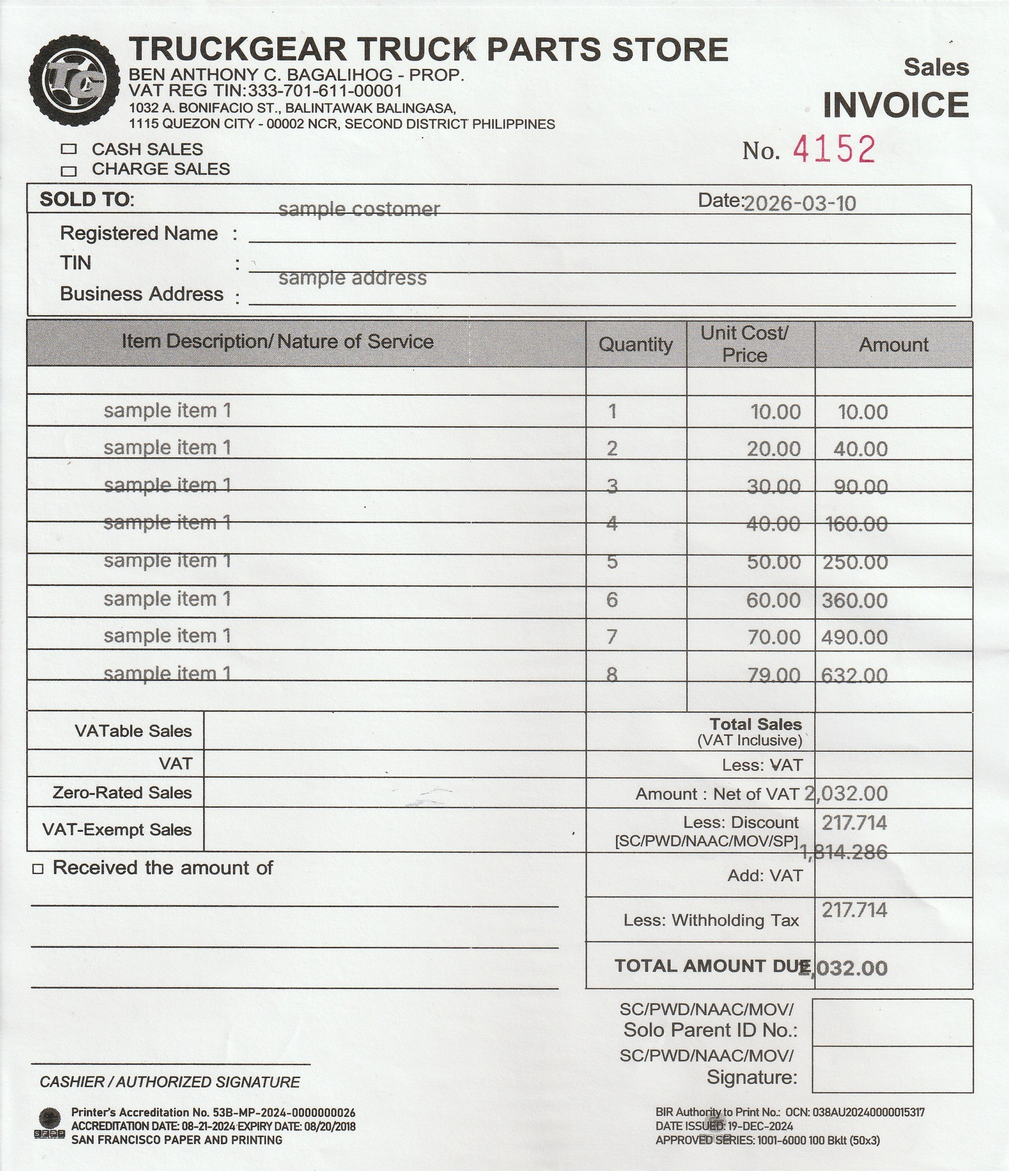
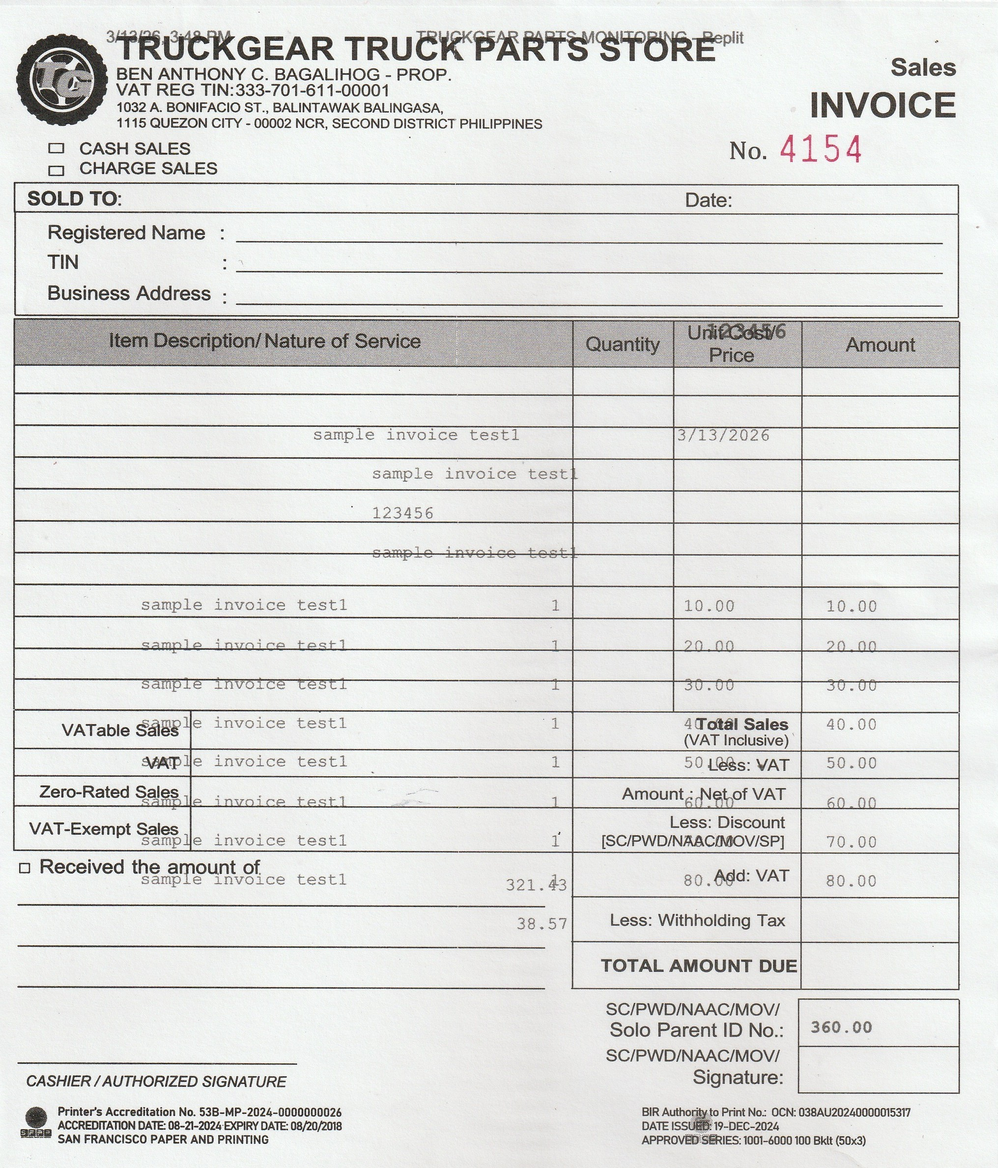
Adjust invoice printing to align with pre-printed forms
Revert CSS and component styles to a fixed-coordinate system for accurate invoice printing and resolve alignment issues.

Replit-Commit-Author: Agent
Replit-Commit-Session-Id: 8ac2a694-98d5-45c3-88cb-b80d0ed2ba3b
Replit-Commit-Checkpoint-Type: full_checkpoint
Replit-Commit-Event-Id: 2df3ead9-0f0a-4c55-b567-287ea16df437
Replit-Commit-Screenshot-Url: https://storage.googleapis.com/screenshot-production-us-central1/c480d651-e199-4d45-839f-b17a900dfa48/8ac2a694-98d5-45c3-88cb-b80d0ed2ba3b/zINcXr9
Replit-Helium-Checkpoint-Created: true

diff --git a/client/src/pages/POS.tsx b/client/src/pages/POS.tsx
@@ -1069,77 +1069,77 @@ export default function POS() {
             className="hidden print:block"
             style={{
               position: "relative",
-              width: "175mm",
-              height: "200mm",
+              width: "148mm",
+              height: "210mm",
               margin: "0",
               padding: "0",
               overflow: "hidden",
-              background: "white",
+              background: "transparent",
               fontFamily: "'Courier New', Courier, monospace",
               fontSize: "10pt",
               color: "black",
             }}
           >
-            {/* ── Invoice Number ── */}
-            <div style={{ position: "absolute", top: "41mm", left: "132mm", width: "38mm", fontWeight: "bold", fontSize: "13pt" }}>
+            {/* INVOICE NUMBER */}
+            <div style={{ position: "absolute", top: "45mm", right: "20mm", fontWeight: "bold", fontSize: "13pt" }}>
               {vaultPrintInvoice.invoiceNumber}
             </div>
 
-            {/* ── Date ── */}
-            <div style={{ position: "absolute", top: "63mm", left: "126mm", width: "44mm" }}>
+            {/* DATE */}
+            <div style={{ position: "absolute", top: "45mm", right: "60mm", fontSize: "9pt" }}>
               {new Date(vaultPrintInvoice.date || vaultPrintInvoice.createdAt).toLocaleDateString("en-PH")}
             </div>
 
-            {/* ── Customer/Sold To name ── */}
-            <div style={{ position: "absolute", top: "63mm", left: "52mm", width: "71mm", whiteSpace: "nowrap", overflow: "hidden" }}>
+            {/* SOLD TO / CUSTOMER NAME */}
+            <div style={{ position: "absolute", top: "65mm", left: "30mm", width: "85mm", whiteSpace: "nowrap", overflow: "hidden" }}>
               {vaultPrintInvoice.registeredName}
             </div>
 
-            {/* ── Registered Name value ── */}
-            <div style={{ position: "absolute", top: "71mm", left: "64mm", width: "104mm", whiteSpace: "nowrap", overflow: "hidden" }}>
+            {/* REGISTERED NAME */}
+            <div style={{ position: "absolute", top: "72mm", left: "30mm", width: "108mm", whiteSpace: "nowrap", overflow: "hidden" }}>
               {vaultPrintInvoice.registeredName}
             </div>
 
-            {/* ── TIN ── */}
-            <div style={{ position: "absolute", top: "79mm", left: "64mm", width: "104mm" }}>
+            {/* TIN */}
+            <div style={{ position: "absolute", top: "79mm", left: "30mm", width: "108mm" }}>
               {vaultPrintInvoice.tin}
             </div>
 
-            {/* ── Business Address ── */}
-            <div style={{ position: "absolute", top: "87mm", left: "64mm", width: "104mm", whiteSpace: "nowrap", overflow: "hidden" }}>
+            {/* BUSINESS ADDRESS */}
+            <div style={{ position: "absolute", top: "86mm", left: "30mm", width: "108mm", whiteSpace: "nowrap", overflow: "hidden" }}>
               {vaultPrintInvoice.businessAddress}
             </div>
 
-            {/* ── Items: first row at 98mm, row height 8mm ── */}
+            {/* ITEMS TABLE */}
             {(vaultPrintInvoice.items || []).map((it: any, index: number) => (
-              <div key={index} style={{ position: "absolute", top: `${98 + index * 8}mm`, left: "0", width: "175mm" }}>
-                <div style={{ position: "absolute", left: "17mm", width: "73mm", overflow: "hidden", whiteSpace: "nowrap" }}>
+              <div key={index} style={{ position: "absolute", top: `${95 + index * 6.5}mm`, left: "15mm", width: "120mm" }}>
+                <div style={{ position: "absolute", left: "0", width: "68mm", overflow: "hidden", whiteSpace: "nowrap" }}>
                   {it.itemDescription}
                 </div>
-                <div style={{ position: "absolute", left: "93mm", width: "17mm", textAlign: "center" }}>
+                <div style={{ position: "absolute", left: "68mm", width: "14mm", textAlign: "center" }}>
                   {it.quantity}
                 </div>
-                <div style={{ position: "absolute", left: "112mm", width: "26mm", textAlign: "right" }}>
+                <div style={{ position: "absolute", left: "82mm", width: "20mm", textAlign: "right" }}>
                   {Number(it.unitPrice).toLocaleString(undefined, { minimumFractionDigits: 2 })}
                 </div>
-                <div style={{ position: "absolute", left: "141mm", width: "26mm", textAlign: "right" }}>
+                <div style={{ position: "absolute", left: "102mm", width: "18mm", textAlign: "right" }}>
                   {Number(it.amount).toLocaleString(undefined, { minimumFractionDigits: 2 })}
                 </div>
               </div>
             ))}
 
-            {/* ── VATable Sales ── */}
-            <div style={{ position: "absolute", top: "155mm", left: "73mm", width: "31mm", textAlign: "right" }}>
+            {/* VATABLE SALES */}
+            <div style={{ position: "absolute", bottom: "52mm", right: "20mm", width: "30mm", textAlign: "right" }}>
               {Number(vaultPrintInvoice.vatableSales || 0).toLocaleString(undefined, { minimumFractionDigits: 2 })}
             </div>
 
-            {/* ── VAT Amount ── */}
-            <div style={{ position: "absolute", top: "163mm", left: "73mm", width: "31mm", textAlign: "right" }}>
+            {/* VAT AMOUNT */}
+            <div style={{ position: "absolute", bottom: "46mm", right: "20mm", width: "30mm", textAlign: "right" }}>
               {Number(vaultPrintInvoice.vatAmount || 0).toLocaleString(undefined, { minimumFractionDigits: 2 })}
             </div>
 
-            {/* ── Total Amount Due ── */}
-            <div style={{ position: "absolute", top: "184mm", left: "125mm", width: "41mm", textAlign: "right", fontWeight: "bold" }}>
+            {/* TOTAL AMOUNT DUE */}
+            <div style={{ position: "absolute", bottom: "40mm", right: "20mm", width: "30mm", textAlign: "right", fontWeight: "bold" }}>
               {Number(vaultPrintInvoice.totalAmount_Due || 0).toLocaleString(undefined, { minimumFractionDigits: 2 })}
             </div>
           </div>
@@ -1254,12 +1254,12 @@ export default function POS() {
                   Close
                 </button>
               </div>
-              {/* 175×200mm container with form as background image, fields overlaid in red */}
+              {/* A5 container — form photo as background, data in red for calibration */}
               <div
                 style={{
                   position: "relative",
-                  width: "175mm",
-                  height: "200mm",
+                  width: "148mm",
+                  height: "210mm",
                   backgroundImage: "url('/invoice-form.jpg')",
                   backgroundSize: "100% 100%",
                   backgroundRepeat: "no-repeat",
@@ -1270,23 +1270,23 @@ export default function POS() {
                   flexShrink: 0,
                 }}
               >
-                <div style={{ position: "absolute", top: "41mm", left: "132mm", width: "38mm", fontWeight: "bold", fontSize: "13pt" }}>{invoiceNo}</div>
-                <div style={{ position: "absolute", top: "63mm", left: "126mm", width: "44mm" }}>{date}</div>
-                <div style={{ position: "absolute", top: "63mm", left: "52mm", width: "71mm", whiteSpace: "nowrap", overflow: "hidden" }}>{customer.name}</div>
-                <div style={{ position: "absolute", top: "71mm", left: "64mm", width: "104mm", whiteSpace: "nowrap", overflow: "hidden" }}>{customer.registeredName || customer.name}</div>
-                <div style={{ position: "absolute", top: "79mm", left: "64mm", width: "104mm" }}>{customer.tin}</div>
-                <div style={{ position: "absolute", top: "87mm", left: "64mm", width: "104mm", whiteSpace: "nowrap", overflow: "hidden" }}>{customer.address}</div>
+                <div style={{ position: "absolute", top: "45mm", right: "20mm", fontWeight: "bold", fontSize: "13pt" }}>{invoiceNo}</div>
+                <div style={{ position: "absolute", top: "45mm", right: "60mm", fontSize: "9pt" }}>{date}</div>
+                <div style={{ position: "absolute", top: "65mm", left: "30mm", width: "85mm", whiteSpace: "nowrap", overflow: "hidden" }}>{customer.name}</div>
+                <div style={{ position: "absolute", top: "72mm", left: "30mm", width: "108mm", whiteSpace: "nowrap", overflow: "hidden" }}>{customer.registeredName || customer.name}</div>
+                <div style={{ position: "absolute", top: "79mm", left: "30mm", width: "108mm" }}>{customer.tin}</div>
+                <div style={{ position: "absolute", top: "86mm", left: "30mm", width: "108mm", whiteSpace: "nowrap", overflow: "hidden" }}>{customer.address}</div>
                 {items.filter((i) => i.description.trim() !== "").map((item, index) => (
-                  <div key={index} style={{ position: "absolute", top: `${98 + index * 8}mm`, left: "0", width: "175mm" }}>
-                    <div style={{ position: "absolute", left: "17mm", width: "73mm", overflow: "hidden", whiteSpace: "nowrap" }}>{item.description}</div>
-                    <div style={{ position: "absolute", left: "93mm", width: "17mm", textAlign: "center" }}>{item.qty}</div>
-                    <div style={{ position: "absolute", left: "112mm", width: "26mm", textAlign: "right" }}>{Number(item.price).toLocaleString(undefined, { minimumFractionDigits: 2 })}</div>
-                    <div style={{ position: "absolute", left: "141mm", width: "26mm", textAlign: "right" }}>{(item.qty * item.price).toLocaleString(undefined, { minimumFractionDigits: 2 })}</div>
+                  <div key={index} style={{ position: "absolute", top: `${95 + index * 6.5}mm`, left: "15mm", width: "120mm" }}>
+                    <div style={{ position: "absolute", left: "0", width: "68mm", overflow: "hidden", whiteSpace: "nowrap" }}>{item.description}</div>
+                    <div style={{ position: "absolute", left: "68mm", width: "14mm", textAlign: "center" }}>{item.qty}</div>
+                    <div style={{ position: "absolute", left: "82mm", width: "20mm", textAlign: "right" }}>{Number(item.price).toLocaleString(undefined, { minimumFractionDigits: 2 })}</div>
+                    <div style={{ position: "absolute", left: "102mm", width: "18mm", textAlign: "right" }}>{(item.qty * item.price).toLocaleString(undefined, { minimumFractionDigits: 2 })}</div>
                   </div>
                 ))}
-                <div style={{ position: "absolute", top: "155mm", left: "73mm", width: "31mm", textAlign: "right" }}>{vatableSales.toLocaleString(undefined, { minimumFractionDigits: 2 })}</div>
-                <div style={{ position: "absolute", top: "163mm", left: "73mm", width: "31mm", textAlign: "right" }}>{vatAmount.toLocaleString(undefined, { minimumFractionDigits: 2 })}</div>
-                <div style={{ position: "absolute", top: "184mm", left: "125mm", width: "41mm", textAlign: "right", fontWeight: "bold" }}>{totalAmount_Due.toLocaleString(undefined, { minimumFractionDigits: 2 })}</div>
+                <div style={{ position: "absolute", bottom: "52mm", right: "20mm", width: "30mm", textAlign: "right" }}>{vatableSales.toLocaleString(undefined, { minimumFractionDigits: 2 })}</div>
+                <div style={{ position: "absolute", bottom: "46mm", right: "20mm", width: "30mm", textAlign: "right" }}>{vatAmount.toLocaleString(undefined, { minimumFractionDigits: 2 })}</div>
+                <div style={{ position: "absolute", bottom: "40mm", right: "20mm", width: "30mm", textAlign: "right", fontWeight: "bold" }}>{totalAmount_Due.toLocaleString(undefined, { minimumFractionDigits: 2 })}</div>
               </div>
               <p className="text-yellow-300 text-sm max-w-md text-center">
                 Red text shows where your data will print. If any value is misaligned, tell me by how many mm to move it (e.g. "invoice number 3mm left, 2mm down").
@@ -1301,81 +1301,81 @@ export default function POS() {
           className="hidden print:block"
           style={{
             position: "relative",
-            width: "175mm",
-            height: "200mm",
+            width: "148mm",   /* A5 width — do not change */
+            height: "210mm",  /* A5 height — do not change */
             margin: "0",
             padding: "0",
             overflow: "hidden",
-            background: "white",
+            background: "transparent",
             fontFamily: "'Courier New', Courier, monospace",
             fontSize: "10pt",
             color: "black",
           }}
         >
-          {/* ── Invoice Number — right of pre-printed "No." ── */}
-          <div style={{ position: "absolute", top: "41mm", left: "132mm", width: "38mm", fontWeight: "bold", fontSize: "13pt" }}>
+          {/* INVOICE NUMBER — increase right to move left; increase top to move down */}
+          <div style={{ position: "absolute", top: "45mm", right: "20mm", fontWeight: "bold", fontSize: "13pt" }}>
             {invoiceNo}
           </div>
 
-          {/* ── Date — right side of "SOLD TO:" row, after pre-printed "Date:" ── */}
-          <div style={{ position: "absolute", top: "63mm", left: "126mm", width: "44mm" }}>
+          {/* DATE — increase right to move left; adjust top for vertical alignment */}
+          <div style={{ position: "absolute", top: "45mm", right: "60mm", fontSize: "9pt" }}>
             {date}
           </div>
 
-          {/* ── Customer/Sold To name — left portion of "SOLD TO:" row ── */}
-          <div style={{ position: "absolute", top: "63mm", left: "52mm", width: "71mm", whiteSpace: "nowrap", overflow: "hidden" }}>
+          {/* SOLD TO / CUSTOMER NAME — increase left to move right; adjust top */}
+          <div style={{ position: "absolute", top: "65mm", left: "30mm", width: "85mm", whiteSpace: "nowrap", overflow: "hidden" }}>
             {customer.name}
           </div>
 
-          {/* ── Registered Name value — after "Registered Name :" label ── */}
-          <div style={{ position: "absolute", top: "71mm", left: "64mm", width: "104mm", whiteSpace: "nowrap", overflow: "hidden" }}>
+          {/* REGISTERED NAME — adjust top for next line alignment */}
+          <div style={{ position: "absolute", top: "72mm", left: "30mm", width: "108mm", whiteSpace: "nowrap", overflow: "hidden" }}>
             {customer.registeredName || customer.name}
           </div>
 
-          {/* ── TIN value — after "TIN :" label ── */}
-          <div style={{ position: "absolute", top: "79mm", left: "64mm", width: "104mm" }}>
+          {/* TIN — adjust top for TIN line alignment */}
+          <div style={{ position: "absolute", top: "79mm", left: "30mm", width: "108mm" }}>
             {customer.tin}
           </div>
 
-          {/* ── Business Address — after "Business Address :" label ── */}
-          <div style={{ position: "absolute", top: "87mm", left: "64mm", width: "104mm", whiteSpace: "nowrap", overflow: "hidden" }}>
+          {/* BUSINESS ADDRESS — adjust top for address line alignment */}
+          <div style={{ position: "absolute", top: "86mm", left: "30mm", width: "108mm", whiteSpace: "nowrap", overflow: "hidden" }}>
             {customer.address}
           </div>
 
-          {/* ── Items: first row at 98mm, row height 8mm ── */}
+          {/* ITEMS TABLE — top: first row start; increase index * N to widen row spacing */}
           {items.filter((i) => i.description.trim() !== "").map((item, index) => (
-            <div key={index} style={{ position: "absolute", top: `${98 + index * 8}mm`, left: "0", width: "175mm" }}>
-              {/* Description */}
-              <div style={{ position: "absolute", left: "17mm", width: "73mm", overflow: "hidden", whiteSpace: "nowrap" }}>
+            <div key={index} style={{ position: "absolute", top: `${95 + index * 6.5}mm`, left: "15mm", width: "120mm" }}>
+              {/* Description — adjust width to fit description column */}
+              <div style={{ position: "absolute", left: "0", width: "68mm", overflow: "hidden", whiteSpace: "nowrap" }}>
                 {item.description}
               </div>
-              {/* Qty */}
-              <div style={{ position: "absolute", left: "93mm", width: "17mm", textAlign: "center" }}>
+              {/* Qty — adjust left to align with Quantity column */}
+              <div style={{ position: "absolute", left: "68mm", width: "14mm", textAlign: "center" }}>
                 {item.qty}
               </div>
-              {/* Unit Price */}
-              <div style={{ position: "absolute", left: "112mm", width: "26mm", textAlign: "right" }}>
+              {/* Unit Price — adjust left to align with Unit Cost/Price column */}
+              <div style={{ position: "absolute", left: "82mm", width: "20mm", textAlign: "right" }}>
                 {Number(item.price).toLocaleString(undefined, { minimumFractionDigits: 2 })}
               </div>
-              {/* Amount */}
-              <div style={{ position: "absolute", left: "141mm", width: "26mm", textAlign: "right" }}>
+              {/* Amount — adjust left to align with Amount column */}
+              <div style={{ position: "absolute", left: "102mm", width: "18mm", textAlign: "right" }}>
                 {(item.qty * item.price).toLocaleString(undefined, { minimumFractionDigits: 2 })}
               </div>
             </div>
           ))}
 
-          {/* ── VATable Sales — left summary column value box ── */}
-          <div style={{ position: "absolute", top: "155mm", left: "73mm", width: "31mm", textAlign: "right" }}>
+          {/* VATABLE SALES — increase bottom to move up; adjust right to move left */}
+          <div style={{ position: "absolute", bottom: "52mm", right: "20mm", width: "30mm", textAlign: "right" }}>
             {vatableSales.toLocaleString(undefined, { minimumFractionDigits: 2 })}
           </div>
 
-          {/* ── VAT Amount (12%) — left summary column, row below VATable Sales ── */}
-          <div style={{ position: "absolute", top: "163mm", left: "73mm", width: "31mm", textAlign: "right" }}>
+          {/* VAT AMOUNT (12%) — increase bottom to move up */}
+          <div style={{ position: "absolute", bottom: "46mm", right: "20mm", width: "30mm", textAlign: "right" }}>
             {vatAmount.toLocaleString(undefined, { minimumFractionDigits: 2 })}
           </div>
 
-          {/* ── Total Amount Due — right summary column, TOTAL AMOUNT DUE row ── */}
-          <div style={{ position: "absolute", top: "184mm", left: "125mm", width: "41mm", textAlign: "right", fontWeight: "bold" }}>
+          {/* TOTAL AMOUNT DUE — increase bottom to move up; adjust right to move left */}
+          <div style={{ position: "absolute", bottom: "40mm", right: "20mm", width: "30mm", textAlign: "right", fontWeight: "bold" }}>
             {totalAmount_Due.toLocaleString(undefined, { minimumFractionDigits: 2 })}
           </div>
         </div>

diff --git a/client/src/index.css b/client/src/index.css
@@ -151,7 +151,7 @@
 
 @media print {
   @page {
-    size: 175mm 200mm;
+    size: A5;
     margin: 0;
   }
 
@@ -194,8 +194,8 @@
     left: 0 !important;
     margin: 0 !important;
     padding: 0 !important;
-    width: 175mm !important;
-    height: 200mm !important;
+    width: 148mm !important;
+    height: 210mm !important;
     overflow: hidden !important;
     background: white !important;
     font-family: 'Courier New', Courier, monospace !important;
